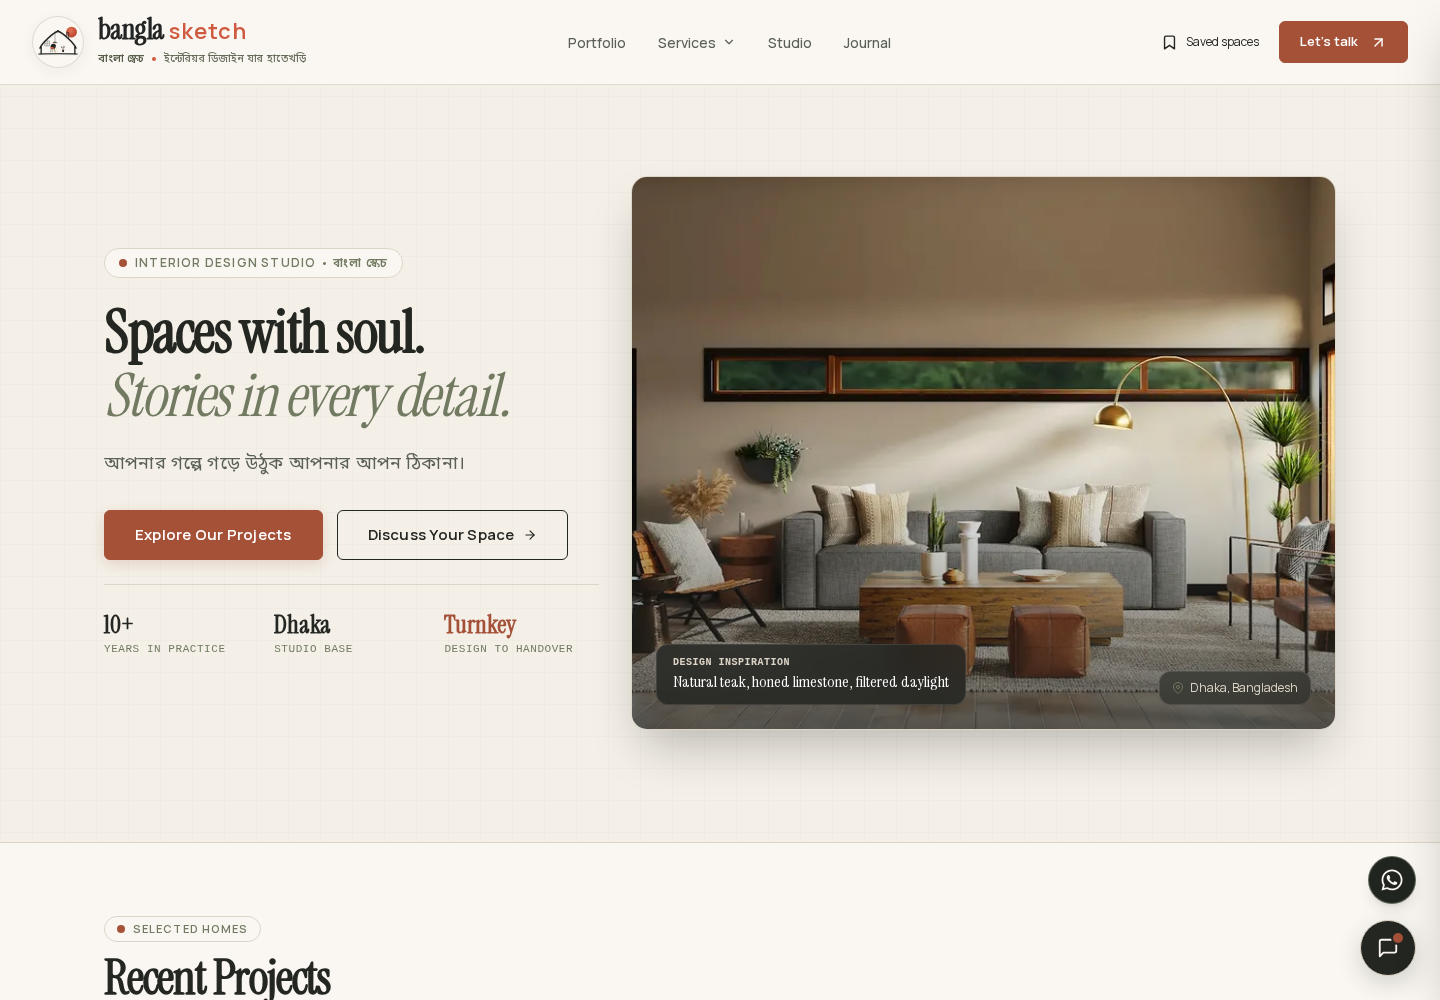
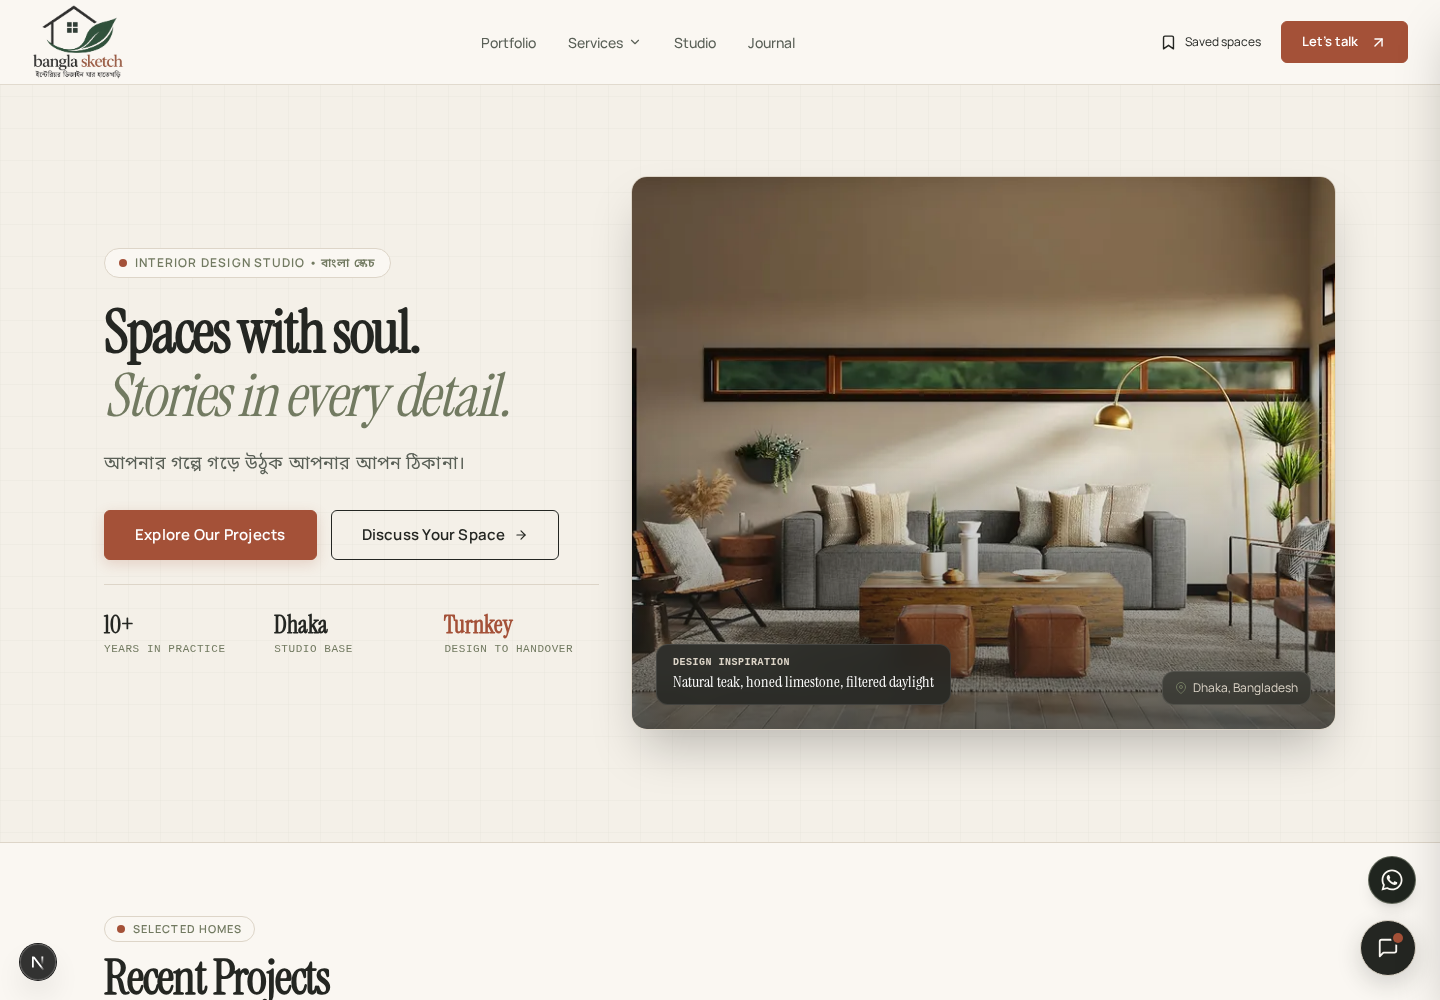
Update README setup guide and latest website screenshots

diff --git a/README.md b/README.md
@@ -2,7 +2,7 @@
 
 ### বাংলা স্কেচ · Interior spaces with soul
 
-Bangla Sketch is a production-ready interior design platform and content management system for a luxury design studio in Dhaka. It brings the public portfolio, editorial journal, lead capture, design assistant, and secure operations dashboard into one carefully crafted experience.
+Bangla Sketch is an interior design platform and content management system for a luxury design studio in Dhaka. It brings the public portfolio, editorial journal, lead capture, design assistant, and secure operations dashboard into one carefully crafted experience.
 
 ![Bangla Sketch desktop homepage](docs/previews/website-desktop.png)
 
@@ -22,13 +22,19 @@ The platform is designed for real enquiries: submissions are persisted safely, e
 
 ## Screenshots
 
-The previews below were captured from the local production build.
+The public website and admin sign-in previews below were captured from the local development app on September 23, 2026, including the latest workspace branding.
 
 ### Public website
 
 <img src="docs/previews/website-mobile.png" alt="Bangla Sketch mobile homepage" width="390" />
 
+### Admin sign-in
+
+![Bangla Sketch admin sign-in](docs/previews/admin-login-desktop.png)
+
 ### Admin panel
+
+Earlier dashboard previews are retained below for reference.
 
 ![Bangla Sketch admin dashboard on desktop](docs/previews/admin-desktop.png)
 
@@ -56,7 +62,7 @@ cd django_backend
 python3 -m venv .venv
 source .venv/bin/activate
 pip install -r requirements.txt
-cp .env.example .env
+cp .env.example .env  # First setup only; preserve any existing .env
 # Configure database and secrets in .env
 python manage.py migrate
 python manage.py setup_admin
@@ -67,18 +73,31 @@ python manage.py runserver 5000
 
 ```bash
 cd frontend
-cp .env.example .env.local
+cp .env.example .env.local  # First setup only; preserve existing configuration
+# Set NODE_ENV=development, API_URL=http://127.0.0.1:5000
+# and NEXT_PUBLIC_API_URL=http://127.0.0.1:5000 in .env.local
 npm install
 npm run dev
 ```
 
 Open [localhost:3000](http://localhost:3000) for the public site and [localhost:3000/admin](http://localhost:3000/admin) for the CMS.
 
+Keep both development servers running in separate terminals. Backend startup requires a reachable PostgreSQL database. Cloudinary and email features require their corresponding credentials.
+
+For queued email delivery and scheduled publishing, run these in additional terminals from `django_backend` with the virtual environment activated:
+
+```bash
+python manage.py run_email_worker
+python manage.py run_jobs
+```
+
 ## Quality and security
 
 - `npm test --prefix frontend` runs frontend regression coverage.
 - `npm run lint --prefix frontend` checks the Next.js codebase.
 - `npm run build --prefix frontend` creates the production bundle.
+- `cd django_backend && .venv/bin/python manage.py check` checks Django configuration.
+- See the [Django migration audit](docs/DJANGO_MIGRATION_AUDIT.md) for compatibility and readiness limitations.
 - Admin sessions use secure, server-verified cookies and middleware route guards.
 - Public lead endpoints use validation, honeypot checks, rate limiting, and durable database writes.
 - Dynamic filters are parameterized and constrained by explicit allowlists.
